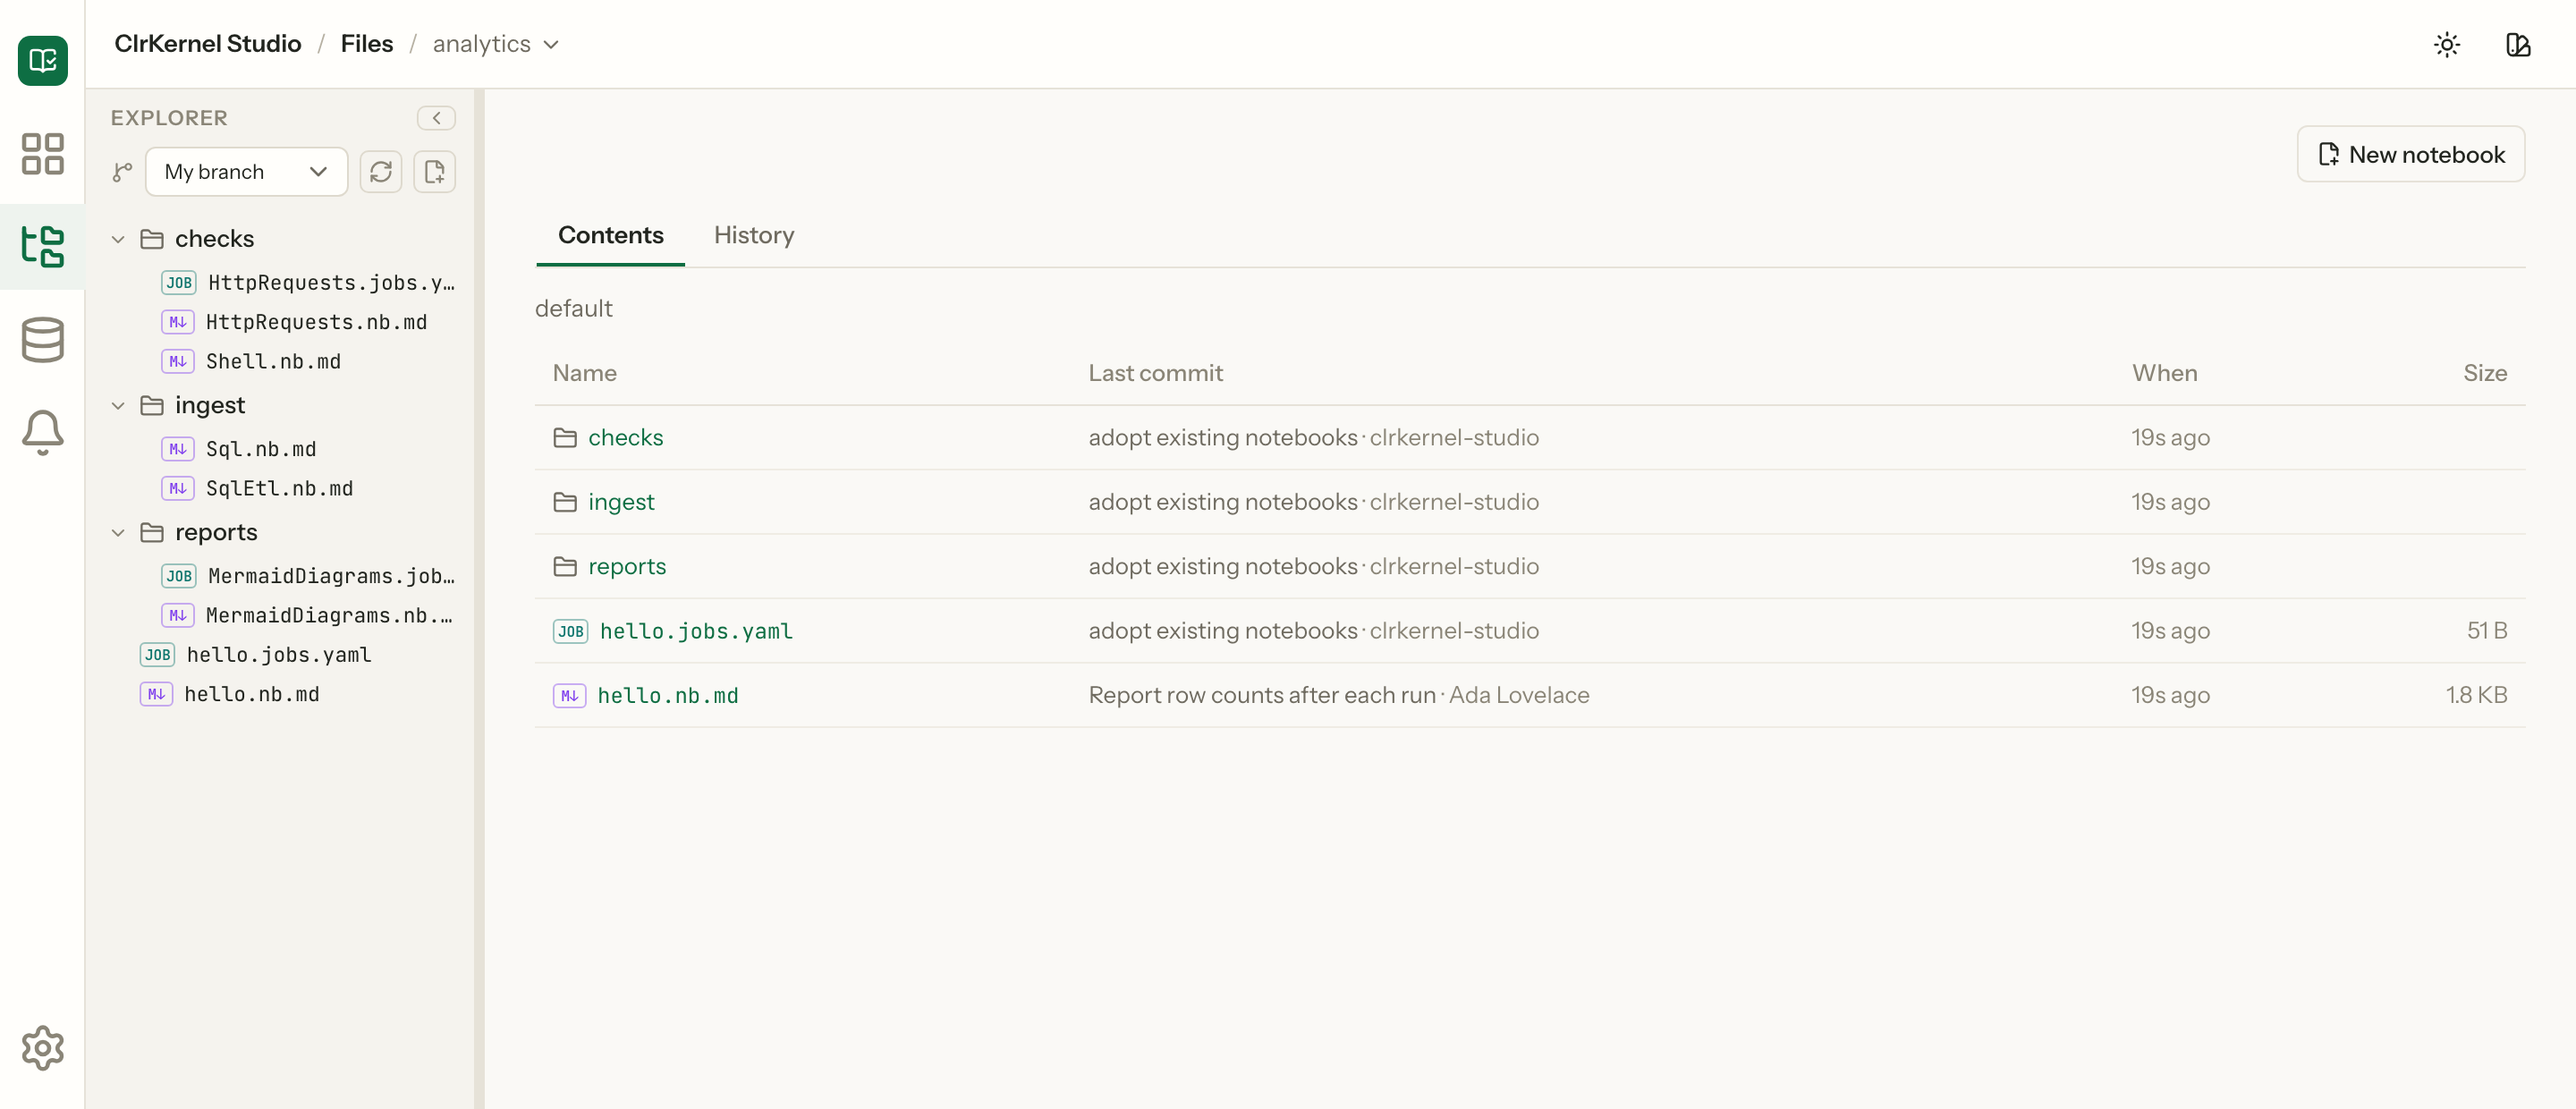
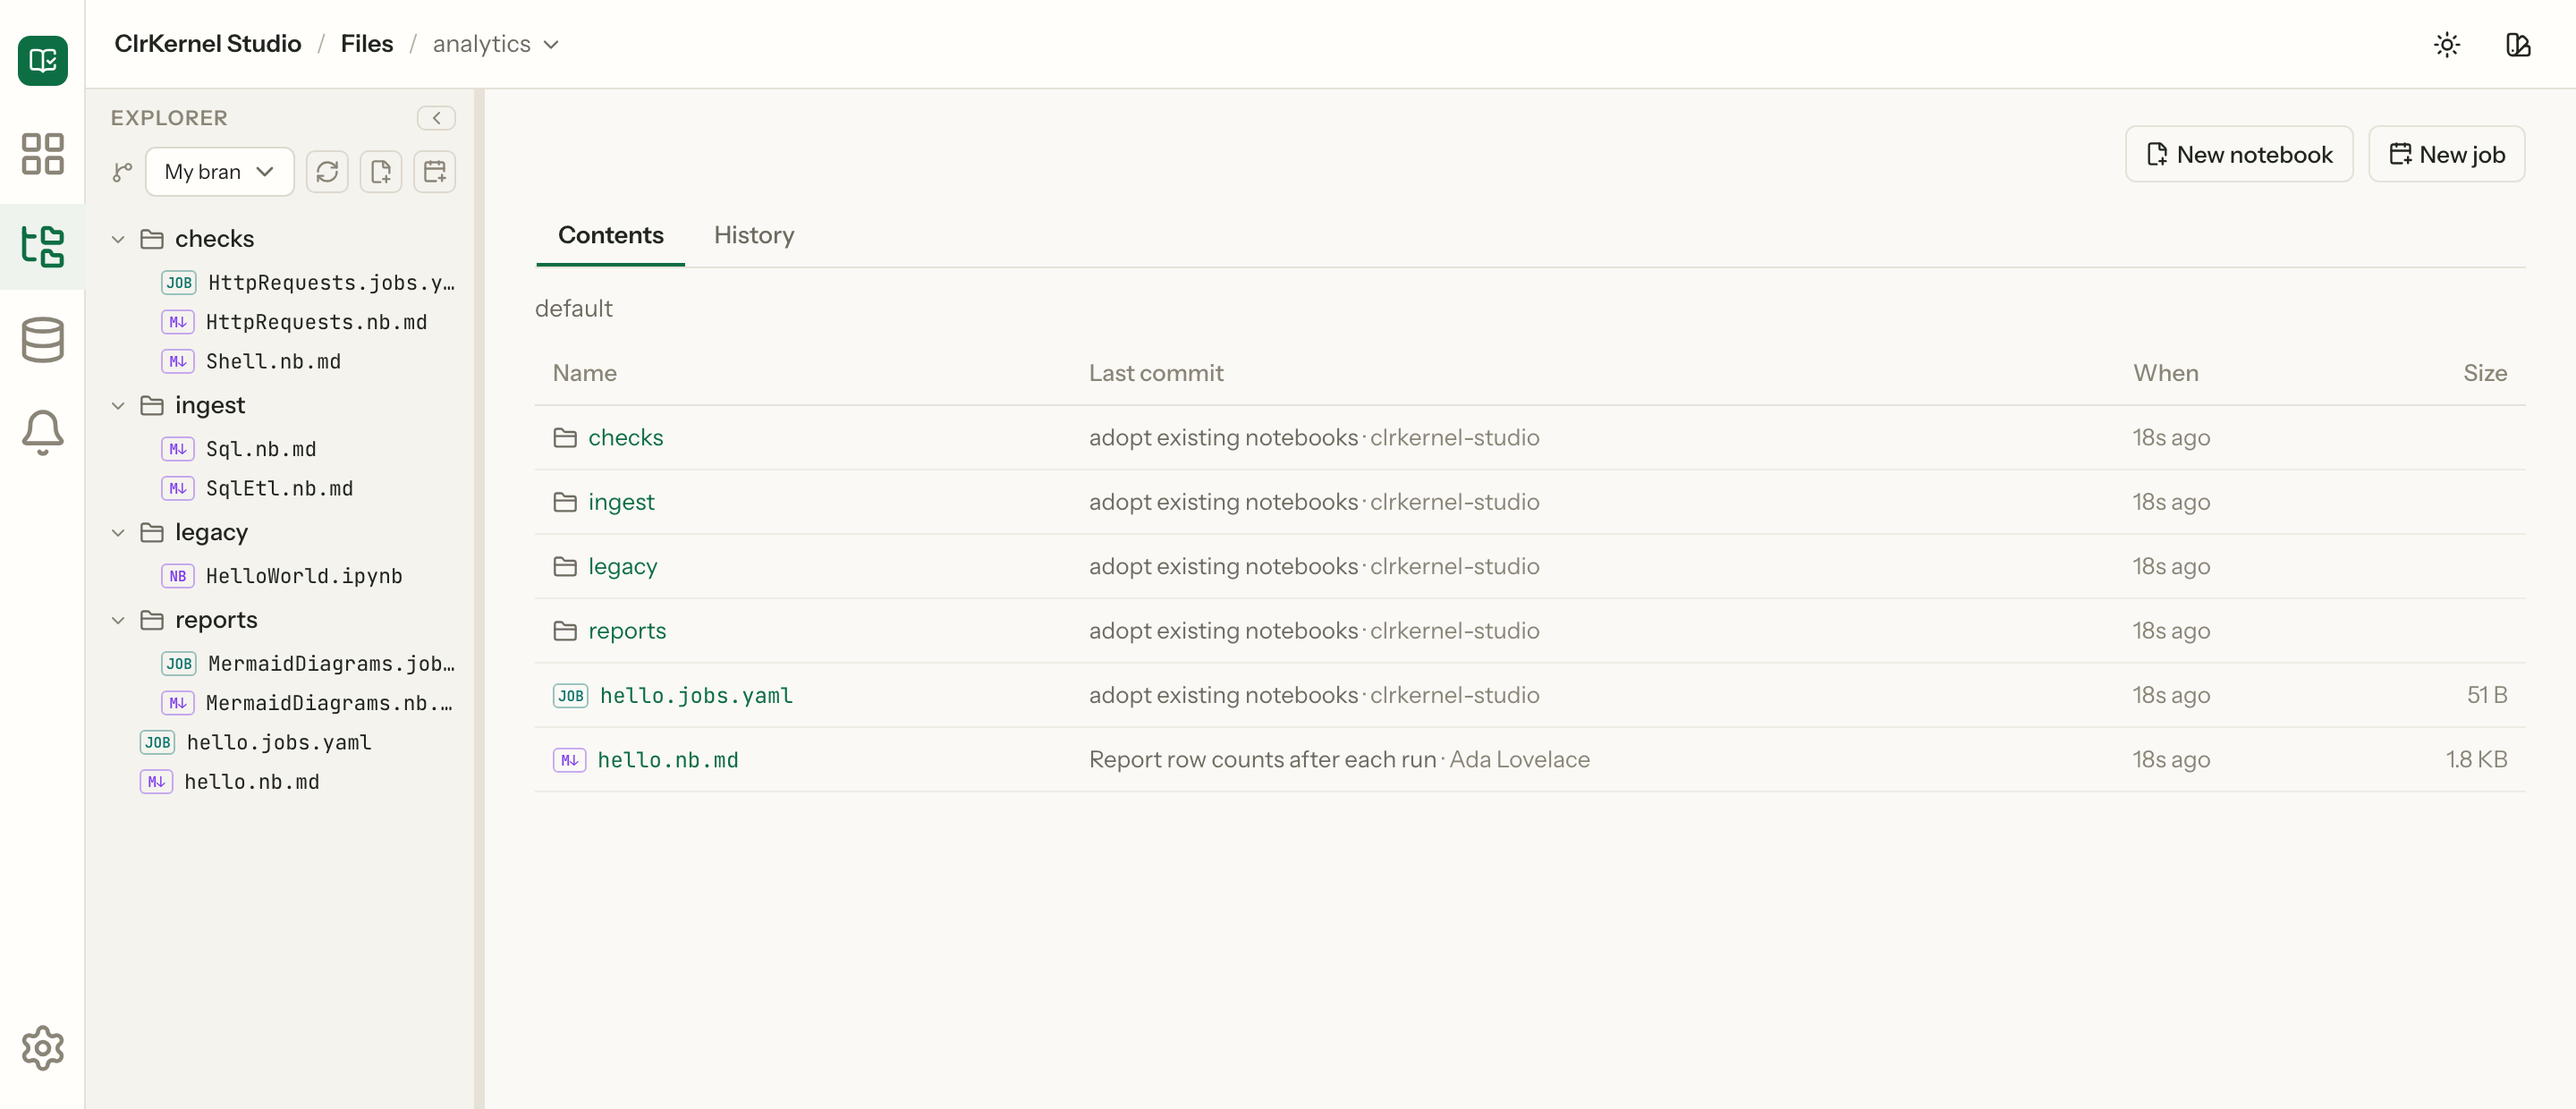
studio files: a New job button beside New notebook, in the explorer and on the Files page
It asks which notebook the job runs — pre-filled with the open notebook, or
the one an open jobs file schedules — makes the paired `*.jobs.yaml` on your
branch if it is not there, and opens its form either way. A notebook that is
not on your branch is refused before any file is made.

docs/studio.md described a `+ job` button in the Files list that no longer
existed, and a "File menu" that is an icon-only button; both corrected, and
the switch, the parameters form and the run tabs documented.

diff --git a/src/ClrKernel.Studio/webapp/src/pages/Files.tsx b/src/ClrKernel.Studio/webapp/src/pages/Files.tsx
@@ -1,4 +1,4 @@
-import { FilePlus2, FolderGit2 } from 'lucide-react';
+import { CalendarPlus, FilePlus2, FolderGit2 } from 'lucide-react';
 import { useEffect, useRef, useState } from 'react';
 import { useNavigate, useParams } from 'react-router-dom';
 import { toast } from 'sonner';
@@ -10,12 +10,12 @@ import { MergePreview } from '../components/MergePreview';
 import { NotebookExplorer } from '../components/NotebookExplorer';
 import { RepoBrowser } from '../components/RepoBrowser';
 import { Splitter } from '../components/Splitter';
-import { createNotebook, promptForNotebook } from '../newNotebook';
+import { createNotebook, promptForJob, promptForNotebook } from '../newNotebook';
 import {
   DEFAULT_LAYOUT, loadLayout, MAX_EXPLORER, MIN_EXPLORER, saveLayout,
   type LayoutPrefs,
 } from '../prefs';
-import { editPath } from '../routes';
+import { editPath, jobsFilePath } from '../routes';
 import { useIsProjectAdmin, useIsProjectMember } from '../sessionContext';
 
 function clamp(value: number, low: number, high: number): number {
@@ -103,6 +103,20 @@ export function Files() {
     }
   }
 
+  /** The jobs file beside a notebook — made if it is not there, opened either way. */
+  async function createJob() {
+    setNotice(null);
+    try {
+      const jobsFile = await promptForJob();
+      if (jobsFile != null) {
+        reload();
+        navigate(jobsFilePath(projectSlug(), 'mine', jobsFile));
+      }
+    } catch (e) {
+      setNotice((e as Error).message);
+    }
+  }
+
   const environments = (tree?.environments ?? []).filter((e) => e.tree != null);
   const mayWrite = (health?.gitEnabled ?? false) && mayEdit;
 
@@ -183,6 +197,12 @@ export function Files() {
                 <Button variant="outline" size="sm" onClick={create}>
                   <FilePlus2 className="size-3.5" aria-hidden="true" />
                   New notebook
+                </Button>
+              )}
+              {mayWrite && (
+                <Button variant="outline" size="sm" onClick={createJob}>
+                  <CalendarPlus className="size-3.5" aria-hidden="true" />
+                  New job
                 </Button>
               )}
             </div>

diff --git a/src/ClrKernel.Studio/webapp/src/components/NotebookExplorer.tsx b/src/ClrKernel.Studio/webapp/src/components/NotebookExplorer.tsx
@@ -1,5 +1,6 @@
 import {
   ArrowDownToLine,
+  CalendarPlus,
   ChevronDown,
   ChevronLeft,
   ChevronRight,
@@ -17,9 +18,9 @@ import {
   SelectValue,
 } from '@/components/ui/select';
 import { api, projectSlug, type BranchStanding, type TreeNode } from '../api';
-import { createNotebook, promptForNotebook } from '../newNotebook';
+import { createNotebook, jobSeed, promptForJob, promptForNotebook } from '../newNotebook';
 import { saveBranch } from '../prefs';
-import { editPath, filesPath } from '../routes';
+import { editPath, filesPath, jobsFilePath } from '../routes';
 import { useIsProjectMember } from '../sessionContext';
 import { BranchOptions, CollapsedRail, usePolling } from './common';
 import { FileBadge } from './FileBadge';
@@ -153,6 +154,19 @@ export function NotebookExplorer({
     }
   }
 
+  /** The jobs file beside a notebook — made if it is not there, opened either way. */
+  async function createJob() {
+    try {
+      const jobsFile = await promptForJob(jobSeed(path));
+      if (jobsFile != null) {
+        reload();
+        navigate(jobsFilePath(projectSlug(), 'mine', jobsFile));
+      }
+    } catch (e) {
+      alert((e as Error).message);
+    }
+  }
+
   if (collapsed) {
     return <CollapsedRail label="Show explorer" onExpand={() => onCollapse(false)} />;
   }
@@ -245,6 +259,17 @@ export function NotebookExplorer({
             className="shrink-0 rounded-sm border border-input p-1 text-muted-subtle outline-none hover:border-primary hover:text-primary focus-visible:ring-2 focus-visible:ring-ring"
           >
             <FilePlus2 className="size-3.5" aria-hidden="true" />
+          </button>
+        )}
+        {mayCreate && (
+          <button
+            type="button"
+            onClick={createJob}
+            title="New job"
+            aria-label="New job"
+            className="shrink-0 rounded-sm border border-input p-1 text-muted-subtle outline-none hover:border-primary hover:text-primary focus-visible:ring-2 focus-visible:ring-ring"
+          >
+            <CalendarPlus className="size-3.5" aria-hidden="true" />
           </button>
         )}
       </div>

diff --git a/src/ClrKernel.Studio/webapp/src/newNotebook.ts b/src/ClrKernel.Studio/webapp/src/newNotebook.ts
@@ -184,3 +184,40 @@ export async function ensureJobsFile(notebook: string): Promise<string> {
   }
   return path;
 }
+
+/**
+ * What "New job" offers as the notebook: the one that is open, or the one the
+ * open jobs file already schedules. Anything else is not a notebook, and a seed
+ * that has to be deleted before typing is worse than an empty box.
+ */
+export function jobSeed(open: string | null): string {
+  const path = open ?? '';
+  if (/\.jobs\.yaml$/i.test(path)) {
+    return path.replace(/\.jobs\.yaml$/i, '.nb.md');
+  }
+  return EXTENSIONS.some((e) => path.toLowerCase().endsWith(e)) ? path : '';
+}
+
+const JOB_PROMPT =
+  'New job — the notebook it runs, as a path on your branch.\n\n'
+  + 'Its jobs file is made beside it if it is not there, and opens either way.';
+
+/**
+ * Asks which notebook, and creates-or-opens the jobs file paired with it. The
+ * path of that file, or null when the person cancelled.
+ *
+ * ponytail: a typed path, the same box "New notebook" uses. A picker over the
+ * tree if people turn out not to know their notebooks' paths.
+ */
+export async function promptForJob(seed = ''): Promise<string | null> {
+  const notebook = promptForNotebook('', seed, JOB_PROMPT);
+  if (notebook == null) {
+    return null;
+  }
+  // A jobs file with no notebook beside it is refused at publish, with the file
+  // already made — so the refusal belongs here, before there is one.
+  if (await api.notebookContent('mine', notebook).catch(() => null) == null) {
+    throw new Error(`${notebook} is not on your branch — a job needs a notebook to run.`);
+  }
+  return ensureJobsFile(notebook);
+}

diff --git a/src/ClrKernel.Studio/webapp/src/components/NotebookToolbar.tsx b/src/ClrKernel.Studio/webapp/src/components/NotebookToolbar.tsx
@@ -1,6 +1,6 @@
 import {
   Copy,
-  FileOutput,
+  EllipsisVertical,
   Info,
   MoreHorizontal,
   Play,
@@ -636,7 +636,7 @@ export function NotebookToolbar(props: NotebookToolbarProps) {
       <DropdownMenu>
         <DropdownMenuTrigger asChild>
           <Button variant="outline" size="xs" aria-label="File" title="Save a copy, or move this notebook">
-            <FileOutput className="size-3.5" aria-hidden="true" />
+            <EllipsisVertical className="size-3.5" aria-hidden="true" />
           </Button>
         </DropdownMenuTrigger>
         {/* w-auto: the default is the *trigger's* width, and the trigger is one
@@ -649,7 +649,7 @@ export function NotebookToolbar(props: NotebookToolbarProps) {
               your machine. */}
           <DropdownMenuItem onSelect={props.onDownload}>Download file</DropdownMenuItem>
           <DropdownMenuItem onSelect={props.onMove}>Move or rename…</DropdownMenuItem>
-          {/* The same act as `+ job` in the Files list, offered where promotion
+          {/* The same act as New job in the explorer, offered where promotion
               says a notebook with no job cannot prove itself — which is here,
               and not on a page you would have to know to go back to. */}
           {props.onSchedule && (

diff --git a/src/ClrKernel.Studio/webapp/src/newNotebook.test.ts b/src/ClrKernel.Studio/webapp/src/newNotebook.test.ts
@@ -1,5 +1,5 @@
 import { describe, expect, it } from 'vitest';
-import { notebookPath } from './newNotebook';
+import { jobSeed, notebookPath } from './newNotebook';
 
 describe('notebookPath', () => {
   it('adds the extension when there is none', () => {
@@ -43,5 +43,17 @@ describe('notebookPath', () => {
     // idea of what they typed.
     expect(notebookPath('notes.md')).toBe('notes.nb.md');
     expect(notebookPath('reports/notes.MD')).toBe('reports/notes.nb.md');
+  });
+});
+
+describe('jobSeed', () => {
+  it('offers the open notebook, or the one an open jobs file schedules', () => {
+    expect(jobSeed('etl/nightly.nb.md')).toBe('etl/nightly.nb.md');
+    expect(jobSeed('etl/nightly.jobs.yaml')).toBe('etl/nightly.nb.md');
+  });
+
+  it('offers nothing for a file that is not a notebook, or for no file', () => {
+    expect(jobSeed('connections.json')).toBe('');
+    expect(jobSeed(null)).toBe('');
   });
 });

diff --git a/docs/studio.md b/docs/studio.md
@@ -147,6 +147,19 @@ also get a cell editor that runs cells against a live kernel — see
   terminal.
 - **Cron and manual triggers ignore dependencies.** If you schedule a job, you asked
   for it at that time.
+- **Three switches, kept apart.** `enabled:` on a job says whether it is *defined*
+  to run — a disabled job is never scheduled, and a file whose jobs are all disabled
+  cannot be activated until the file says otherwise, which takes an edit, a push and
+  a promotion. On top of that, each **jobs file** has an operator's switch in the
+  store, not the file, and it applies to every job in it: **Deactivate** pauses the
+  file indefinitely, **Pause** snoozes it for two hours, a day, a week or until a
+  time you type, and the schedule resumes by itself when that passes. It sits above
+  the cards on the file's Overview in test and prod, and a paused or inactive file's
+  jobs drop out of the dashboard's upcoming list. None of the three stops **Run
+  now**. The switch is a row in the `jobs` table (`jobs.json` on the file store):
+  `project, environment, path, active, paused_until, last_modified`, keyed by the
+  file's path — which is what joins it to `runs`, whose `notebook_path` is the
+  notebook beside that file — so it survives a promotion and never needs one.
 - `--max-parallelism` (default 4) caps concurrent runs. On shutdown, in-flight runs
   are cancelled and their kernels killed; runs left behind by a crash are marked
   failed at the next start.
@@ -912,6 +925,11 @@ not track an empty one and the file tree does not show it, so a button for it wo
 produce nothing you could see. It lands on your own branch whichever branch you
 were reading, which is the same rule as everything else here.
 
+**New job** sits beside it in both places. It asks which notebook the job runs —
+already filled in when one is open — makes the paired `*.jobs.yaml` beside it on your
+branch if it is not there, and opens its form either way. A notebook that is not on
+your branch is refused before any file is made.
+
 The loop:
 
 1. **Edit** in the web UI (see [The notebook editor](#the-notebook-editor), where you
@@ -1080,6 +1098,14 @@ form is what the file is for, and the YAML tab is the escape hatch beside it —
 a picture, an SVG or a PDF opens at its **Preview**, because there is nothing to
 read.
 
+The Overview shows a job's name, schedule, timeout, retries and `enabled:`, and its
+**parameters** as one box per `var name = value;` line of the notebook's
+`// parameters` cell, with the notebook's own default as the placeholder — so the
+form offers what the notebook is expecting rather than asking you to remember it.
+An empty box means the default. Which notebook is not a field: the file schedules
+the one beside it. `dependsOn:` and `notify:` are named on the card and edited on
+the YAML tab.
+
 `/files` on its own — what the rail links to, and what you get from a bookmark —
 opens the project you were last in, remembered per browser. Links
 written against the old shape (`/notebooks`, `/edit?project=…&path=…&branch=…`)
@@ -1144,6 +1170,13 @@ the trigger rather than on its own.
 Paging is Previous/Next rather than "1–50 of 1,240": the page asks for one row
 more than it shows and reports whether it got it, where a total would be a
 `COUNT(*)` over the whole history on every poll.
+
+A run opens at `/runs/<id>/cells`, and the tab is in the address, so a refresh on
+**Log** stays on Log. **Cells** is one collapsed row per cell — index, status, first
+line, duration — with that cell's output open underneath it, so a finished run
+reads top to bottom without clicking; the row expands to the full source.
+**Notebook** is the executed artifact, source and output in separate boxes with an
+`Out` gutter on the output, the way a notebook reads. **Log** fills the window.
 
 ### Notifications
 
@@ -1299,8 +1332,9 @@ it and everything after; the toolbar adds **Run All** and **Restart kernel**.
 
 The **File** menu holds *Save a copy as…*, *Move or rename…* and — for a notebook —
 *Schedule (add a job)…*, which creates the paired `*.jobs.yaml` on your branch if it is
-not there and opens its form. The same act as `+ job` in the Files list, offered where
-you are when promotion tells you a notebook with no job cannot prove itself.
+not there and opens its form. The same act as **New job** in the explorer, offered where
+you are when promotion tells you a notebook with no job cannot prove itself. The menu is
+the icon-only button left of the *Saved* chip.
 
 **Focus Mode** gives one cell the window — its editor above, its output below, with the
 notebook's contents as a tree on the left — for when a notebook is long enough that
